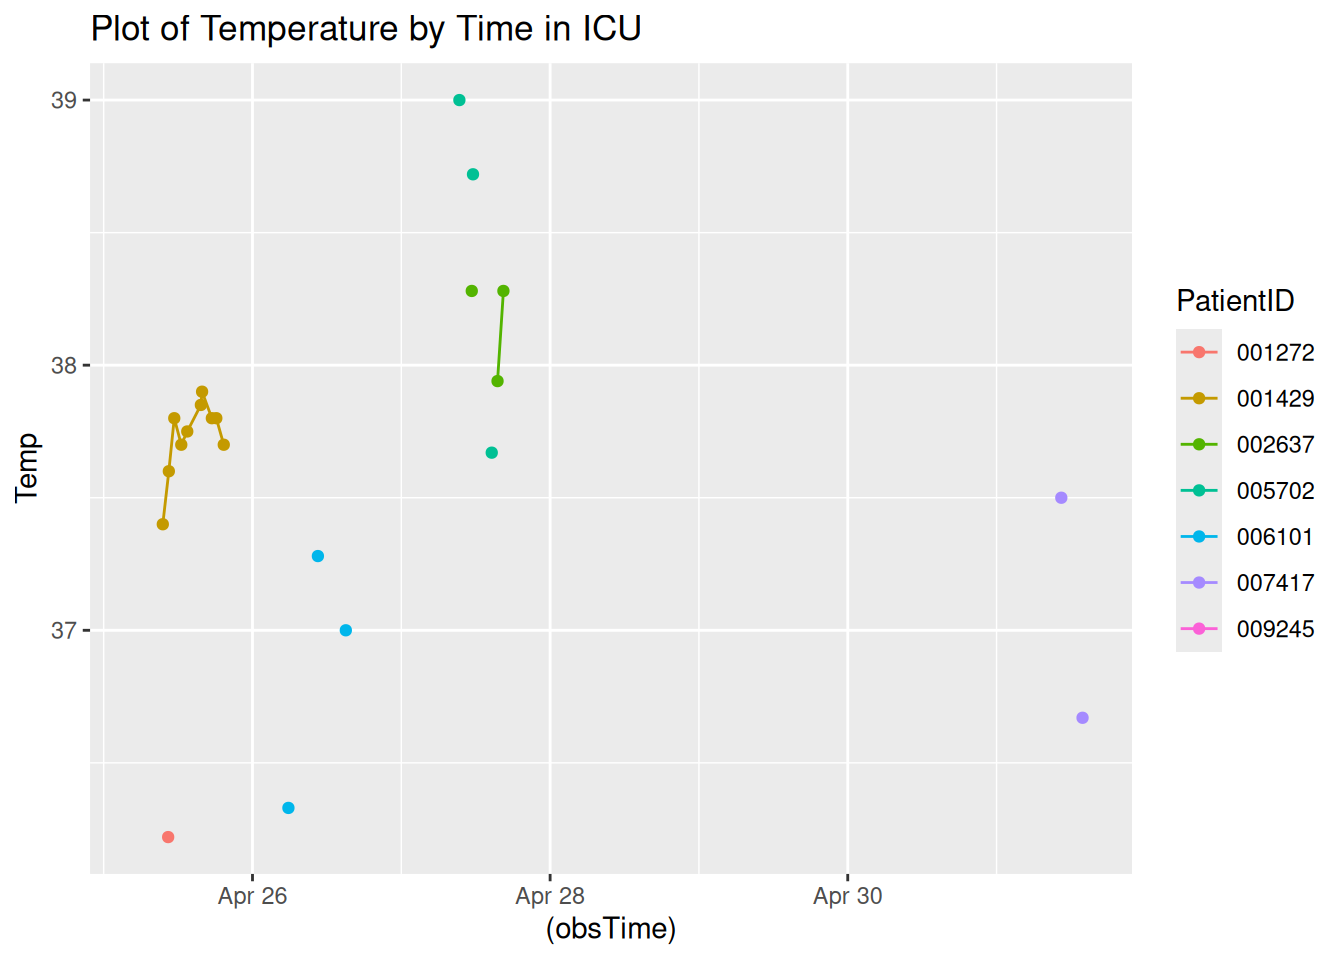
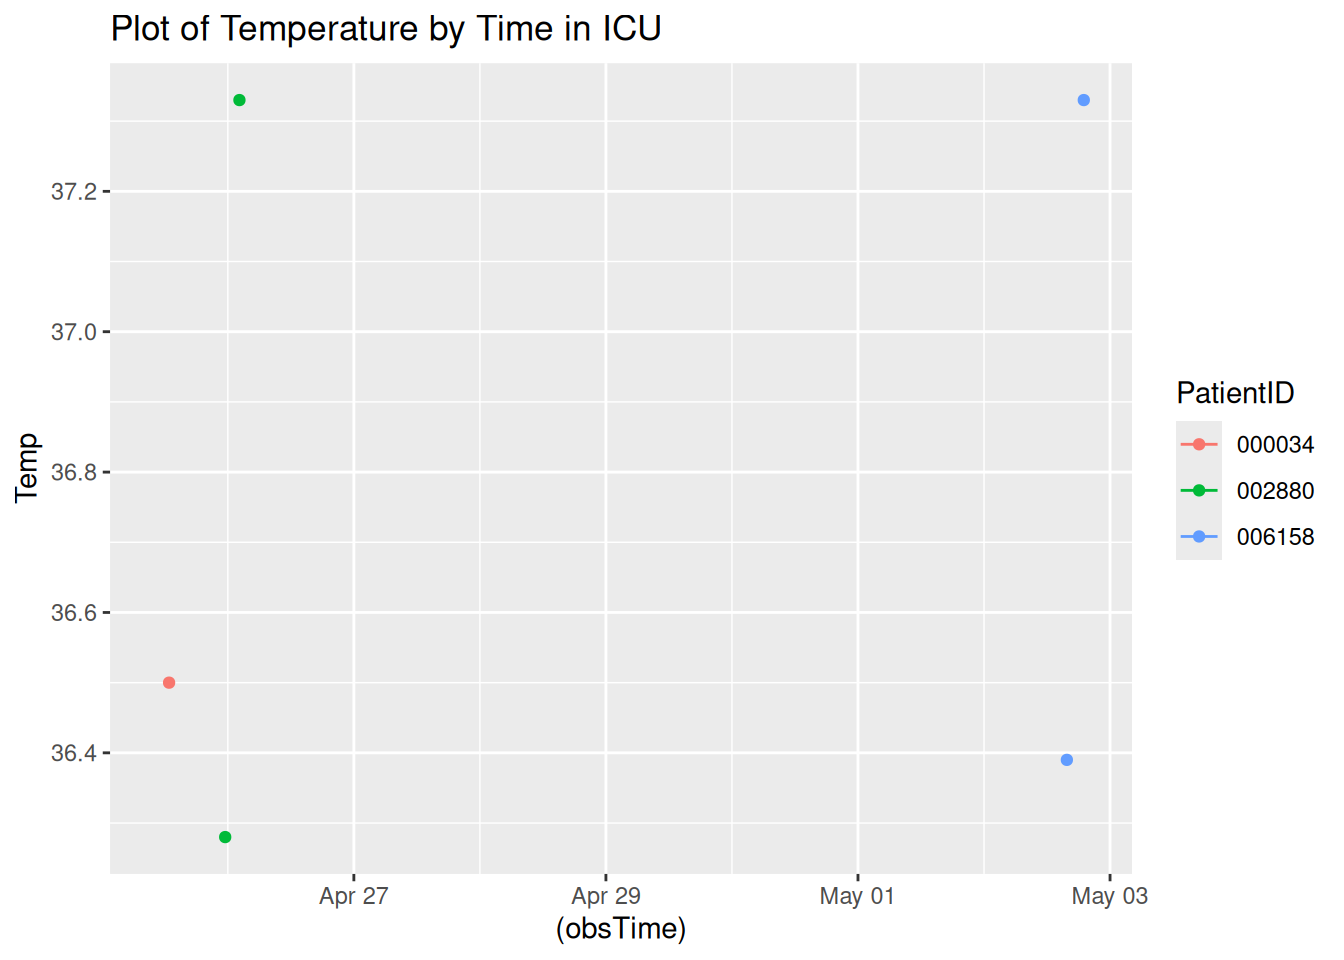
Updated report

diff --git a/A7.html b/A7.html
@@ -116,7 +116,7 @@ pre > code.sourceCode > span > a:first-child::before { text-decoration: underlin
 </div>
 <div class="sourceCode cell-code" id="cb4"><pre class="sourceCode r code-with-copy"><code class="sourceCode r"><span id="cb4-1"><a href="#cb4-1" aria-hidden="true" tabindex="-1"></a><span class="fu">toc</span>()</span></code><button title="Copy to Clipboard" class="code-copy-button"><i class="bi"></i></button></pre></div>
 <div class="cell-output cell-output-stdout">
-<pre><code>11.463 sec elapsed</code></pre>
+<pre><code>10.592 sec elapsed</code></pre>
 </div>
 <div class="sourceCode cell-code" id="cb6"><pre class="sourceCode r code-with-copy"><code class="sourceCode r"><span id="cb6-1"><a href="#cb6-1" aria-hidden="true" tabindex="-1"></a><span class="fu">tic</span>()</span>
 <span id="cb6-2"><a href="#cb6-2" aria-hidden="true" tabindex="-1"></a>test1<span class="ot">=</span><span class="fu">makeSepsisDataset</span>(<span class="at">n=</span><span class="dv">50</span>,<span class="at">read_fn =</span> <span class="st">"read_delim"</span>)</span>
@@ -126,7 +126,7 @@ pre > code.sourceCode > span > a:first-child::before { text-decoration: underlin
 </div>
 <div class="sourceCode cell-code" id="cb8"><pre class="sourceCode r code-with-copy"><code class="sourceCode r"><span id="cb8-1"><a href="#cb8-1" aria-hidden="true" tabindex="-1"></a><span class="fu">toc</span>()</span></code><button title="Copy to Clipboard" class="code-copy-button"><i class="bi"></i></button></pre></div>
 <div class="cell-output cell-output-stdout">
-<pre><code>8.826 sec elapsed</code></pre>
+<pre><code>8.531 sec elapsed</code></pre>
 </div>
 <div class="sourceCode cell-code" id="cb10"><pre class="sourceCode r code-with-copy"><code class="sourceCode r"><span id="cb10-1"><a href="#cb10-1" aria-hidden="true" tabindex="-1"></a><span class="co"># n=100</span></span>
 <span id="cb10-2"><a href="#cb10-2" aria-hidden="true" tabindex="-1"></a><span class="fu">tic</span>()</span>
@@ -137,7 +137,7 @@ pre > code.sourceCode > span > a:first-child::before { text-decoration: underlin
 </div>
 <div class="sourceCode cell-code" id="cb12"><pre class="sourceCode r code-with-copy"><code class="sourceCode r"><span id="cb12-1"><a href="#cb12-1" aria-hidden="true" tabindex="-1"></a><span class="fu">toc</span>()</span></code><button title="Copy to Clipboard" class="code-copy-button"><i class="bi"></i></button></pre></div>
 <div class="cell-output cell-output-stdout">
-<pre><code>13.785 sec elapsed</code></pre>
+<pre><code>11.894 sec elapsed</code></pre>
 </div>
 <div class="sourceCode cell-code" id="cb14"><pre class="sourceCode r code-with-copy"><code class="sourceCode r"><span id="cb14-1"><a href="#cb14-1" aria-hidden="true" tabindex="-1"></a><span class="fu">tic</span>()</span>
 <span id="cb14-2"><a href="#cb14-2" aria-hidden="true" tabindex="-1"></a>test1<span class="ot">=</span><span class="fu">makeSepsisDataset</span>(<span class="at">n=</span><span class="dv">100</span>,<span class="at">read_fn =</span> <span class="st">"read_delim"</span>)</span>
@@ -147,7 +147,7 @@ pre > code.sourceCode > span > a:first-child::before { text-decoration: underlin
 </div>
 <div class="sourceCode cell-code" id="cb16"><pre class="sourceCode r code-with-copy"><code class="sourceCode r"><span id="cb16-1"><a href="#cb16-1" aria-hidden="true" tabindex="-1"></a><span class="fu">toc</span>()</span></code><button title="Copy to Clipboard" class="code-copy-button"><i class="bi"></i></button></pre></div>
 <div class="cell-output cell-output-stdout">
-<pre><code>16.334 sec elapsed</code></pre>
+<pre><code>14.477 sec elapsed</code></pre>
 </div>
 <div class="sourceCode cell-code" id="cb18"><pre class="sourceCode r code-with-copy"><code class="sourceCode r"><span id="cb18-1"><a href="#cb18-1" aria-hidden="true" tabindex="-1"></a><span class="co"># n=500</span></span>
 <span id="cb18-2"><a href="#cb18-2" aria-hidden="true" tabindex="-1"></a><span class="fu">tic</span>()</span>
@@ -158,7 +158,7 @@ pre > code.sourceCode > span > a:first-child::before { text-decoration: underlin
 </div>
 <div class="sourceCode cell-code" id="cb20"><pre class="sourceCode r code-with-copy"><code class="sourceCode r"><span id="cb20-1"><a href="#cb20-1" aria-hidden="true" tabindex="-1"></a><span class="fu">toc</span>()</span></code><button title="Copy to Clipboard" class="code-copy-button"><i class="bi"></i></button></pre></div>
 <div class="cell-output cell-output-stdout">
-<pre><code>66.717 sec elapsed</code></pre>
+<pre><code>58.099 sec elapsed</code></pre>
 </div>
 <div class="sourceCode cell-code" id="cb22"><pre class="sourceCode r code-with-copy"><code class="sourceCode r"><span id="cb22-1"><a href="#cb22-1" aria-hidden="true" tabindex="-1"></a><span class="fu">tic</span>()</span>
 <span id="cb22-2"><a href="#cb22-2" aria-hidden="true" tabindex="-1"></a>test1<span class="ot">=</span><span class="fu">makeSepsisDataset</span>(<span class="at">n=</span><span class="dv">500</span>,<span class="at">read_fn =</span> <span class="st">"read_delim"</span>)</span>
@@ -168,7 +168,7 @@ pre > code.sourceCode > span > a:first-child::before { text-decoration: underlin
 </div>
 <div class="sourceCode cell-code" id="cb24"><pre class="sourceCode r code-with-copy"><code class="sourceCode r"><span id="cb24-1"><a href="#cb24-1" aria-hidden="true" tabindex="-1"></a><span class="fu">toc</span>()</span></code><button title="Copy to Clipboard" class="code-copy-button"><i class="bi"></i></button></pre></div>
 <div class="cell-output cell-output-stdout">
-<pre><code>81.145 sec elapsed</code></pre>
+<pre><code>73.243 sec elapsed</code></pre>
 </div>
 </div>
 <p><strong>Task 3</strong></p>
@@ -194,7 +194,7 @@ pre > code.sourceCode > span > a:first-child::before { text-decoration: underlin
 <span id="cb28-4"><a href="#cb28-4" aria-hidden="true" tabindex="-1"></a></span>
 <span id="cb28-5"><a href="#cb28-5" aria-hidden="true" tabindex="-1"></a><span class="fu">Sys.time</span>()</span></code><button title="Copy to Clipboard" class="code-copy-button"><i class="bi"></i></button></pre></div>
 <div class="cell-output cell-output-stdout">
-<pre><code>[1] "2025-04-25 05:26:42 UTC"</code></pre>
+<pre><code>[1] "2025-04-25 06:36:30 UTC"</code></pre>
 </div>
 <div class="sourceCode cell-code" id="cb30"><pre class="sourceCode r code-with-copy"><code class="sourceCode r"><span id="cb30-1"><a href="#cb30-1" aria-hidden="true" tabindex="-1"></a>dfnew <span class="ot">&lt;-</span> df <span class="sc">%&gt;%</span></span>
 <span id="cb30-2"><a href="#cb30-2" aria-hidden="true" tabindex="-1"></a>  <span class="fu">subset</span>(SepsisLabel<span class="sc">==</span><span class="dv">1</span>)</span>
@@ -223,67 +223,31 @@ pre > code.sourceCode > span > a:first-child::before { text-decoration: underlin
 </thead>
 <tbody>
 <tr class="odd">
-<td style="text-align: left;">001272</td>
-<td style="text-align: right;">8</td>
-<td style="text-align: right;">82</td>
+<td style="text-align: left;">000034</td>
+<td style="text-align: right;">12</td>
+<td style="text-align: right;">77</td>
 <td style="text-align: right;">NA</td>
-<td style="text-align: right;">15</td>
+<td style="text-align: right;">24</td>
 <td style="text-align: right;">1</td>
-<td style="text-align: left;">2025-04-25 12:58:49</td>
+<td style="text-align: left;">2025-04-25 18:19:35</td>
 </tr>
 <tr class="even">
-<td style="text-align: left;">001429</td>
-<td style="text-align: right;">15</td>
-<td style="text-align: right;">80</td>
-<td style="text-align: right;">37.7</td>
-<td style="text-align: right;">13</td>
+<td style="text-align: left;">002880</td>
+<td style="text-align: right;">29</td>
+<td style="text-align: right;">NA</td>
+<td style="text-align: right;">NA</td>
+<td style="text-align: right;">NA</td>
 <td style="text-align: right;">1</td>
-<td style="text-align: left;">2025-04-25 19:21:57</td>
+<td style="text-align: left;">2025-04-26 10:45:17</td>
 </tr>
 <tr class="odd">
-<td style="text-align: left;">002637</td>
-<td style="text-align: right;">60</td>
-<td style="text-align: right;">89</td>
+<td style="text-align: left;">006158</td>
+<td style="text-align: right;">181</td>
+<td style="text-align: right;">99</td>
 <td style="text-align: right;">NA</td>
-<td style="text-align: right;">16</td>
+<td style="text-align: right;">19</td>
 <td style="text-align: right;">1</td>
-<td style="text-align: left;">2025-04-27 16:55:08</td>
-</tr>
-<tr class="even">
-<td style="text-align: left;">005702</td>
-<td style="text-align: right;">60</td>
-<td style="text-align: right;">89</td>
-<td style="text-align: right;">NA</td>
-<td style="text-align: right;">23</td>
-<td style="text-align: right;">1</td>
-<td style="text-align: left;">2025-04-27 17:19:14</td>
-</tr>
-<tr class="odd">
-<td style="text-align: left;">006101</td>
-<td style="text-align: right;">36</td>
-<td style="text-align: right;">71</td>
-<td style="text-align: right;">37.0</td>
-<td style="text-align: right;">16</td>
-<td style="text-align: right;">1</td>
-<td style="text-align: left;">2025-04-26 15:03:08</td>
-</tr>
-<tr class="even">
-<td style="text-align: left;">007417</td>
-<td style="text-align: right;">153</td>
-<td style="text-align: right;">98</td>
-<td style="text-align: right;">NA</td>
-<td style="text-align: right;">8</td>
-<td style="text-align: right;">1</td>
-<td style="text-align: left;">2025-05-01 14:14:36</td>
-</tr>
-<tr class="odd">
-<td style="text-align: left;">009245</td>
-<td style="text-align: right;">42</td>
-<td style="text-align: right;">88</td>
-<td style="text-align: right;">NA</td>
-<td style="text-align: right;">18</td>
-<td style="text-align: right;">1</td>
-<td style="text-align: left;">2025-04-26 23:14:10</td>
+<td style="text-align: left;">2025-05-02 19:22:48</td>
 </tr>
 </tbody>
 </table>
